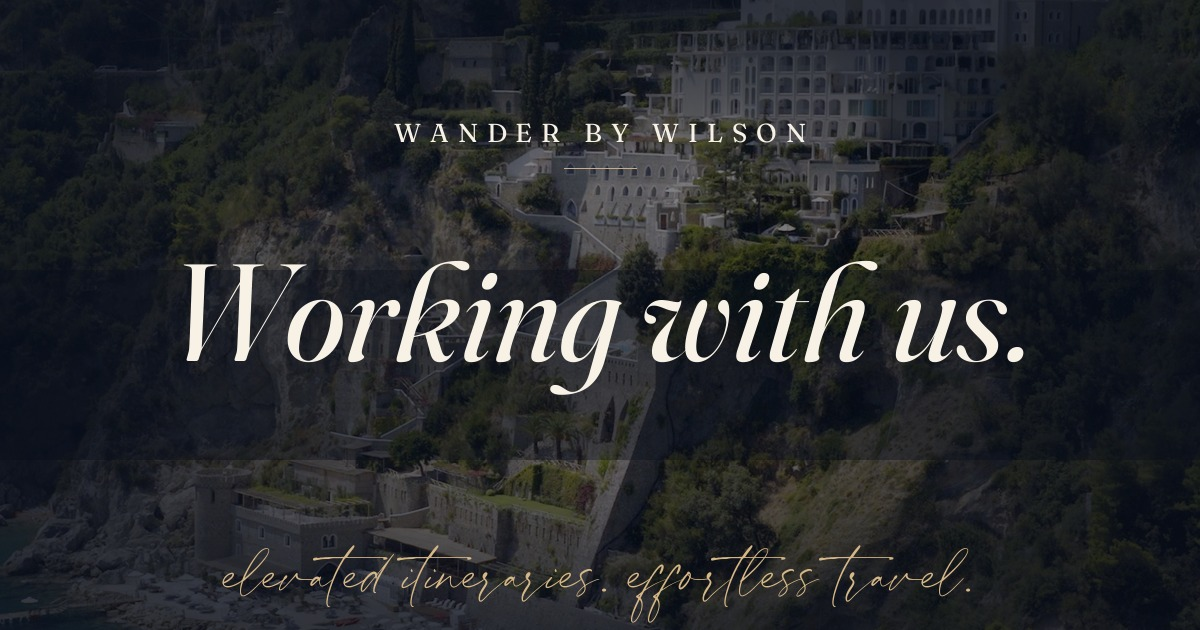
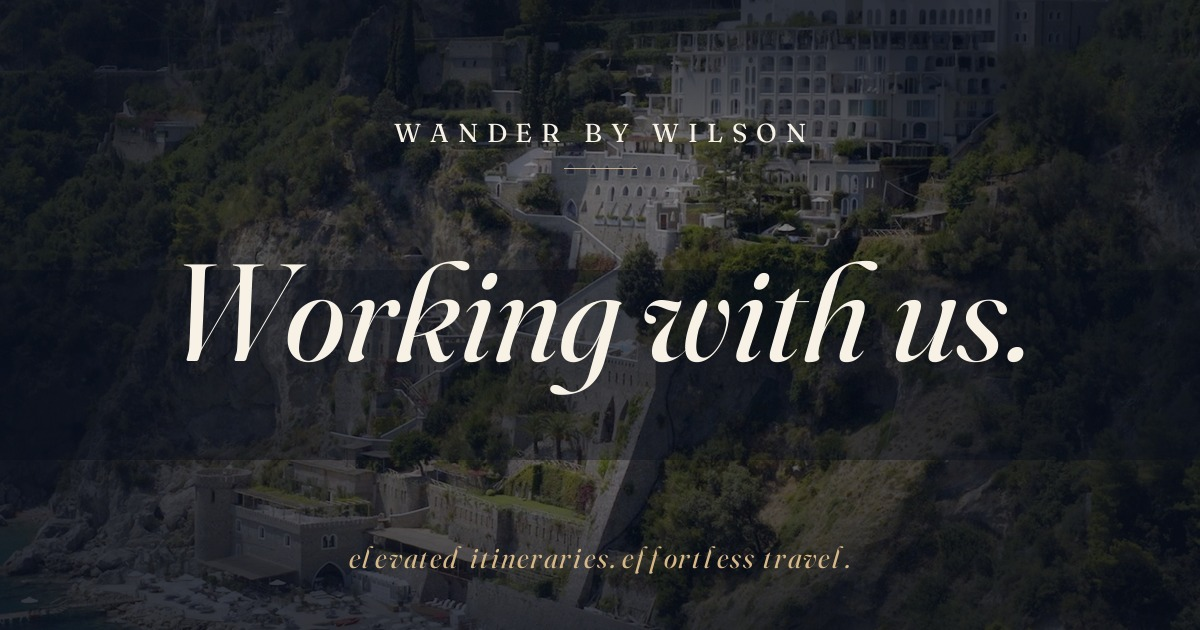
Welcome guide: gold italic on tier names + OG card tagline → Fraunces italic
Tier cards (Signature Stay/Escape/Journey)
- .wg-tier-name em now colored var(--gold) — matches the services page
  treatment so the italic accent word pops against the navy "Signature"
  base everywhere it appears

OG card
- Tagline "elevated itineraries. effortless travel." was in Blackstone
  script. At the preview size iMessage/social apps render it, the script
  glyphs got too thin to read. Swapped to Fraunces Italic at 30px with
  0.04em tracking — same typeface family as the "Working with us."
  display so the whole card now sits in one consistent type voice and
  the tagline is legible at any preview scale.

Changed region(s): [[0.185, 0.8746, 0.8017, 0.9952]]

diff --git a/welcome-guide.html b/welcome-guide.html
@@ -55,7 +55,7 @@
             margin: 0 0 6px;
             letter-spacing: -0.005em;
         }
-        .wg-tier-name em { font-style: italic; font-weight: 300; }
+        .wg-tier-name em { font-style: italic; font-weight: 300; color: var(--gold); }
         .wg-tier-for {
             font-family: var(--font-serif);
             font-style: italic;
